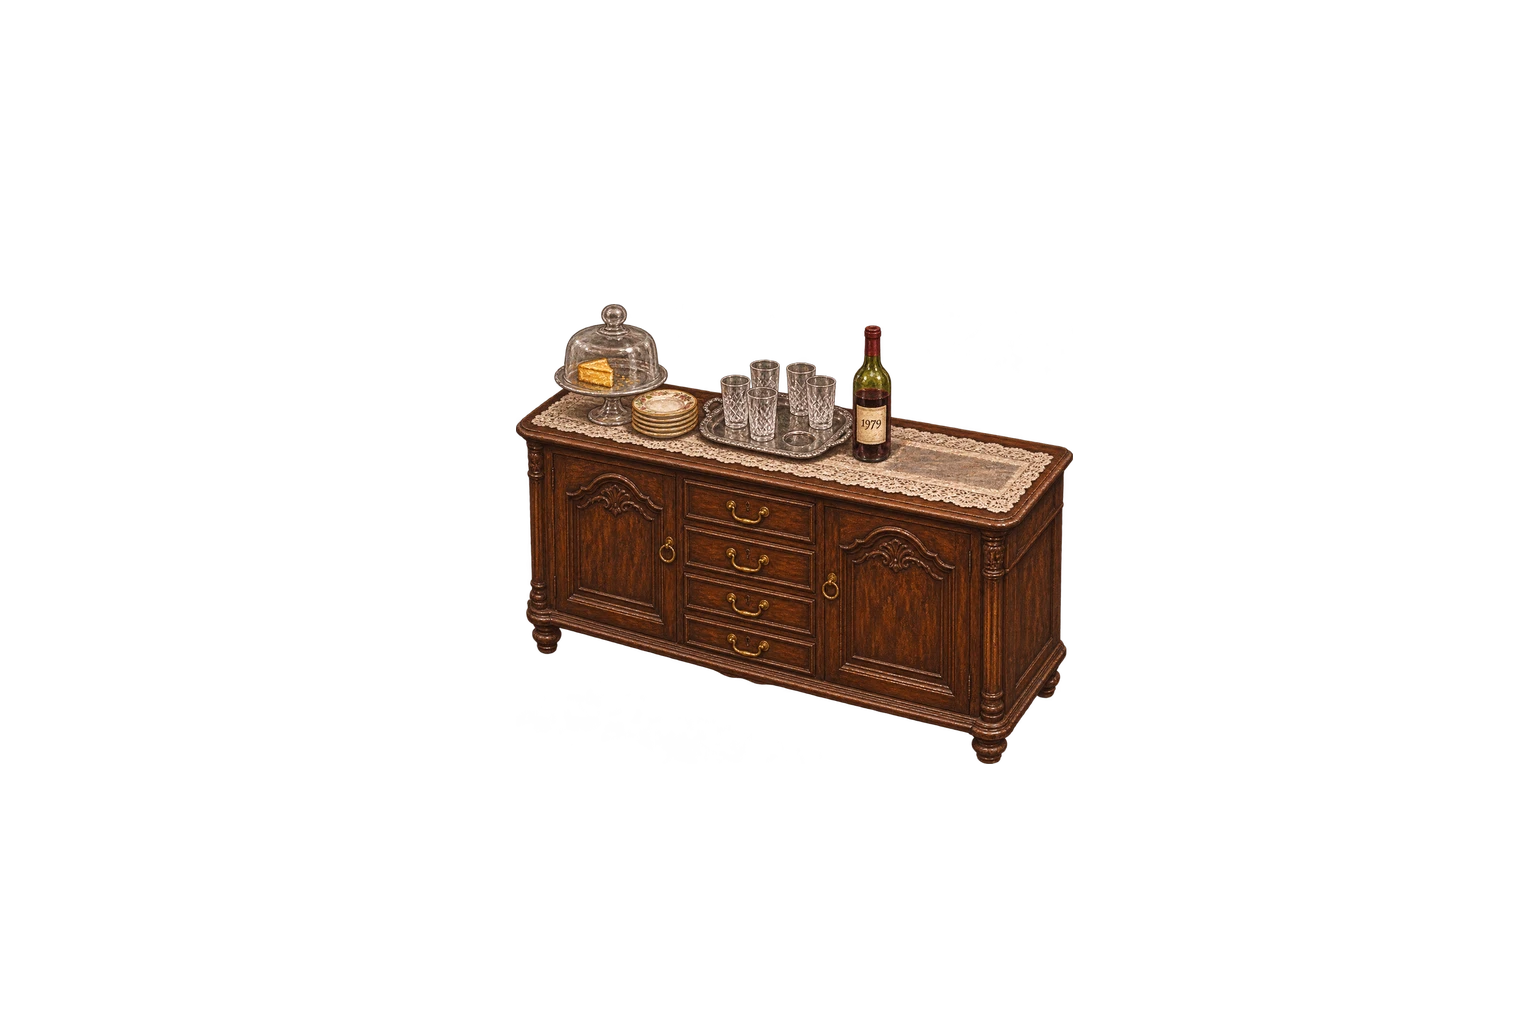
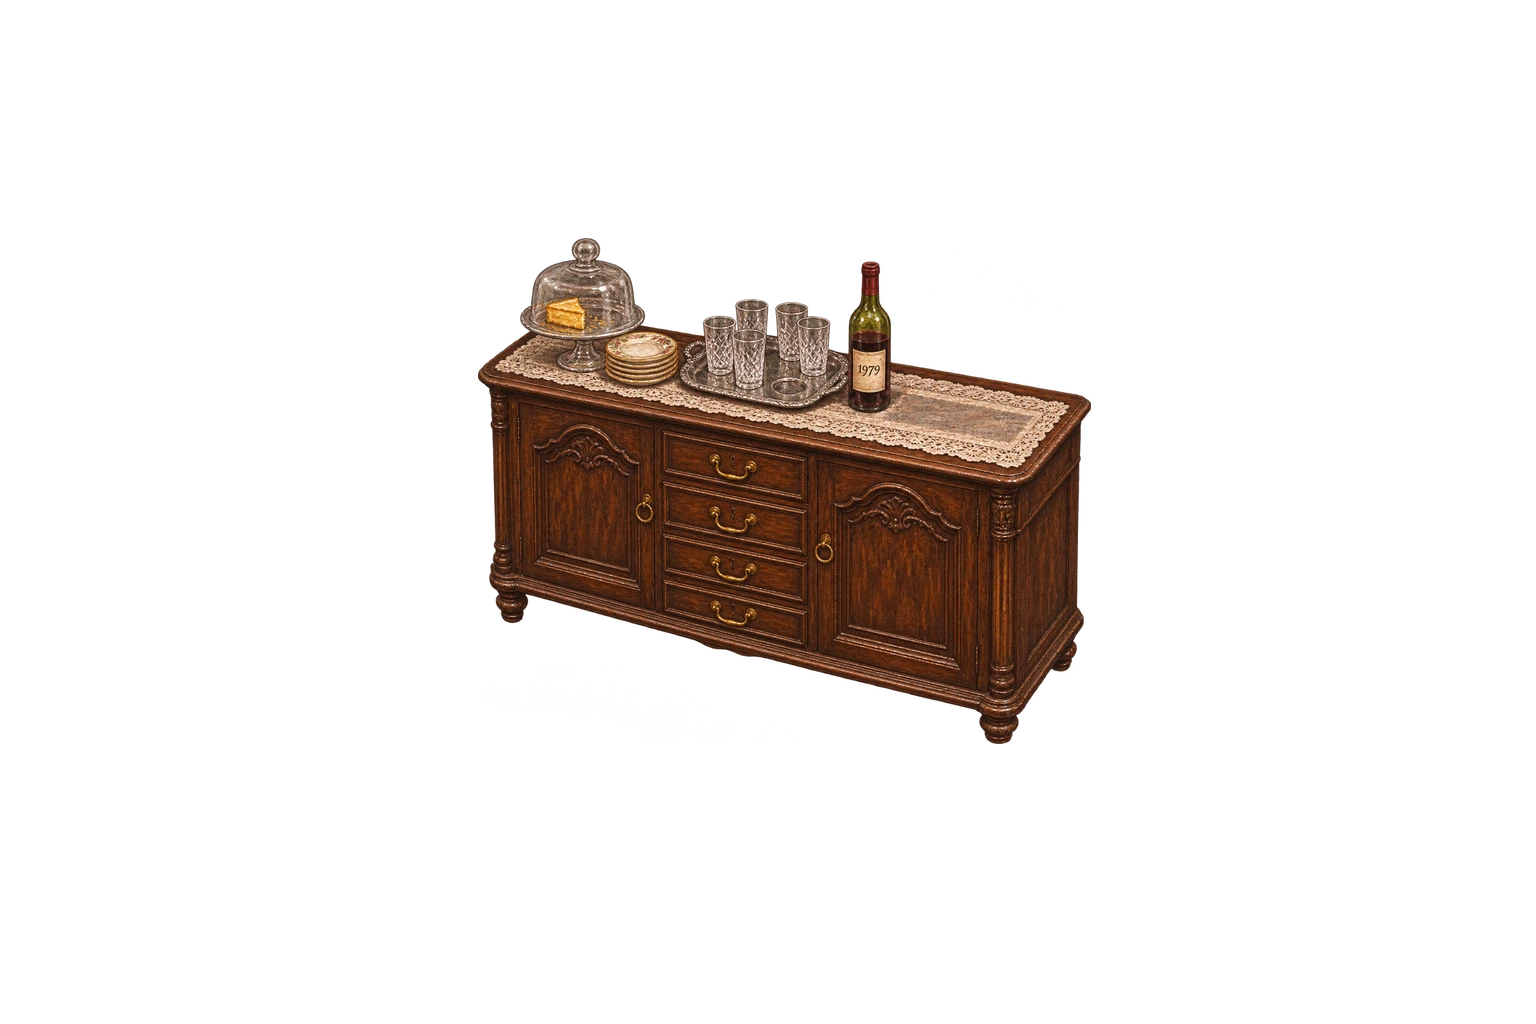
Testing Zone: fine-tune the living room sofa, sideboard and chair
Claude-Session: https://claude.ai/code/session_013LCfUXWQD6NCZDVs8qittP

Changed region(s): [[0.3125, 0.2188, 0.7188, 0.75]]

diff --git a/src/game/rooms/c001-living-room.ts b/src/game/rooms/c001-living-room.ts
@@ -32,7 +32,7 @@ export const C001_LIVING_ROOM: TestRoom = {
     // Front right corner, beside the sofa.
     { id: "side-table", image: "/rooms/c001-living-room/props/side_table.webp", x: 0.74, z: -0.72, width: 0.22, height: 0.46, gain: 1.2, shadow: { width: 0.22, depth: 0.2, back: 0.03 } },
     // On the rug, a little left of the tape marks (the tape marks and broken glass are laid into the floor image).
-    { id: "chair", image: "/rooms/c001-living-room/props/chair.webp", x: -0.33, z: -0.36, width: 0.36, height: 0.28, gain: 1.2, shadow: { width: 0.36, depth: 0.25, back: 0.06 } },
+    { id: "chair", image: "/rooms/c001-living-room/props/chair.webp", x: -0.27, z: -0.33, width: 0.3, height: 0.234, gain: 1.2, shadow: { width: 0.3, depth: 0.22, back: 0.05 } },
     // Left wall: the roll-top desk toward the front door, the sideboard toward the kitchen arch.
     { id: "rolltop", image: "/rooms/c001-living-room/props/rolltop_view.webp", x: -0.749, z: -0.42, width: 0, height: 0, gain: 1.2, view: { yaw: -60.719, pitch: -24.315, fovv: 62, aspect: 1.5, dist: 0.9423 }, shadow: { width: 0.6, depth: 0.32, back: -0.02 } },
     { id: "sideboard", image: "/rooms/c001-living-room/props/sideboard_view.webp", x: -0.794, z: 0.5, width: 0, height: 0, gain: 1.2, view: { yaw: -122.2, pitch: -25.298, fovv: 62, aspect: 1.5, dist: 1.0378 }, shadow: { width: 0.68, depth: 0.25, back: -0.06 } },
@@ -41,14 +41,14 @@ export const C001_LIVING_ROOM: TestRoom = {
   ],
   hotspots: [
     { kind: "switch", id: "lr-switch", yaw: -17.7, pitch: -3.1, label: "Light switch" },
-    { kind: "inspect", id: "lr_chair", yaw: -42.5, pitch: -43.9, label: "Overturned chair", text: "Overturned chair: One of the dining chairs, brought in for coffee. It lies on its back." },
+    { kind: "inspect", id: "lr_chair", yaw: -39.3, pitch: -49.0, label: "Overturned chair", text: "Overturned chair: One of the dining chairs, brought in for coffee. It lies on its back." },
     { kind: "inspect", id: "lr_glass", yaw: -49.6, pitch: -66.7, label: "Broken glass", text: "Broken glass: Crystal shards on the carpet, a bagged piece beside them with an LAPD tag." },
-    { kind: "inspect", id: "lr_sofa", yaw: 16.9, pitch: -34.7, label: "Sofa", text: "Where she was found: Police tape marks on the carpet between the sofa and the overturned chair show where Eleanor was found. The sofa cushions are still squared off. Nothing on this side of the room was disturbed." },
+    { kind: "inspect", id: "lr_sofa", yaw: 18.5, pitch: -34.6, label: "Sofa", text: "Where she was found: Police tape marks on the carpet between the sofa and the overturned chair show where Eleanor was found. The sofa cushions are still squared off. Nothing on this side of the room was disturbed." },
     { kind: "inspect", id: "lr_ledger", yaw: -59.3, pitch: -22.5, label: "Writing desk", text: "Eleanor's writing desk: A roll-top desk. Her household ledger lies open on the blotter." },
     { kind: "inspect", id: "lr_diary", yaw: -60.9, pitch: -16.4, label: "Desk diary", text: "Desk diary: A leather desk diary propped open on the shelf above the blotter." },
     { kind: "inspect", id: "lr_drawer", yaw: -44.4, pitch: -30.9, label: "Desk filing drawer", text: "Filing drawer: A deep drawer of hanging files, each labeled in Eleanor's handwriting. One gap stands out." },
-    { kind: "inspect", id: "lr_sideboard", yaw: -123.6, pitch: -30.6, label: "Sideboard", text: "Sideboard: A glass cake stand with a few crumbs of lemon cake, five dessert plates stacked beside it, and a tray of crystal water glasses. One place in the set is empty. A space on the runner where something long lay." },
-    { kind: "inspect", id: "lr_wine", yaw: -115.1, pitch: -18.0, label: "Wine bottle", text: "Wine bottle: A 1979 Burgundy, two-thirds empty. Fingerprint powder on the neck. The police lab report found only Eleanor's prints." },
+    { kind: "inspect", id: "lr_sideboard", yaw: -124.6, pitch: -28.1, label: "Sideboard", text: "Sideboard: A glass cake stand with a few crumbs of lemon cake, five dessert plates stacked beside it, and a tray of crystal water glasses. One place in the set is empty. A space on the runner where something long lay." },
+    { kind: "inspect", id: "lr_wine", yaw: -115.4, pitch: -14.3, label: "Wine bottle", text: "Wine bottle: A 1979 Burgundy, two-thirds empty. Fingerprint powder on the neck. The police lab report found only Eleanor's prints." },
     { kind: "inspect", id: "lr_poker", yaw: 109.7, pitch: -20.0, label: "Fireplace tools", text: "Fireplace tools: Poker, brush and shovel, hanging neatly in their stand. A film of dust on all three. The grate holds old, cold ash. No one has lit a fire here since spring." },
     { kind: "inspect", id: "lr_front_door", yaw: -34.1, pitch: -4.7, label: "Front door", text: "Front door: Solid oak, with a deadbolt and a brass chain. No damage. Margaret Ellis let herself in with her spare key at 7:40 on Saturday morning; the door was locked and the chain was off." },
     { kind: "inspect", id: "lr_to_kitchen", yaw: 179.5, pitch: -10.2, label: "Kitchen", text: "Test hotspot. The kitchen is not built in 360° yet; this will walk you through." },

diff --git a/scripts/testing/fit_view.py b/scripts/testing/fit_view.py
@@ -1,16 +1,19 @@
 # Testing Zone tool: fits art painted over a reference view into its red box, on a frame the size of the reference.
-# usage: fit_view.py art.png ref.json out.webp
+# usage: fit_view.py art.png ref.json out.webp [scale] [dx] [dy]  (extra scale on the fit; shift in frame pixels)
 import sys, json, numpy as np
 from PIL import Image
 art, ref, out = sys.argv[1:4]
+extra = float(sys.argv[4]) if len(sys.argv) > 4 else 1.0
+dx = float(sys.argv[5]) if len(sys.argv) > 5 else 0.0
+dy = float(sys.argv[6]) if len(sys.argv) > 6 else 0.0
 j = json.load(open(ref)); W, H = j['W'], j['H']; bx0, by0, bx1, by1 = j['bbox']
 im = Image.open(art).convert('RGBA'); a = np.asarray(im); op = a[..., 3] > 128
 ys = np.where(op.any(1))[0]; xs = np.where(op.any(0))[0]
 obj = im.crop((xs.min(), ys.min(), xs.max() + 1, ys.max() + 1))
-s = ((bx1 - bx0) / obj.size[0] + (by1 - by0) / obj.size[1]) / 2
+s = ((bx1 - bx0) / obj.size[0] + (by1 - by0) / obj.size[1]) / 2 * extra
 obj = obj.resize((round(obj.size[0] * s), round(obj.size[1] * s)), Image.LANCZOS)
 frame = Image.new('RGBA', (W, H), (0, 0, 0, 0))
 # Line up the bottoms (where it meets the floor) and the middles across.
-frame.alpha_composite(obj, (round((bx0 + bx1) / 2 - obj.size[0] / 2), round(by1 - obj.size[1])))
+frame.alpha_composite(obj, (round((bx0 + bx1) / 2 - obj.size[0] / 2 + dx), round(by1 - obj.size[1] + dy)))
 frame.save(out, quality=90)
 print('scale', round(s, 3), 'size', obj.size)
